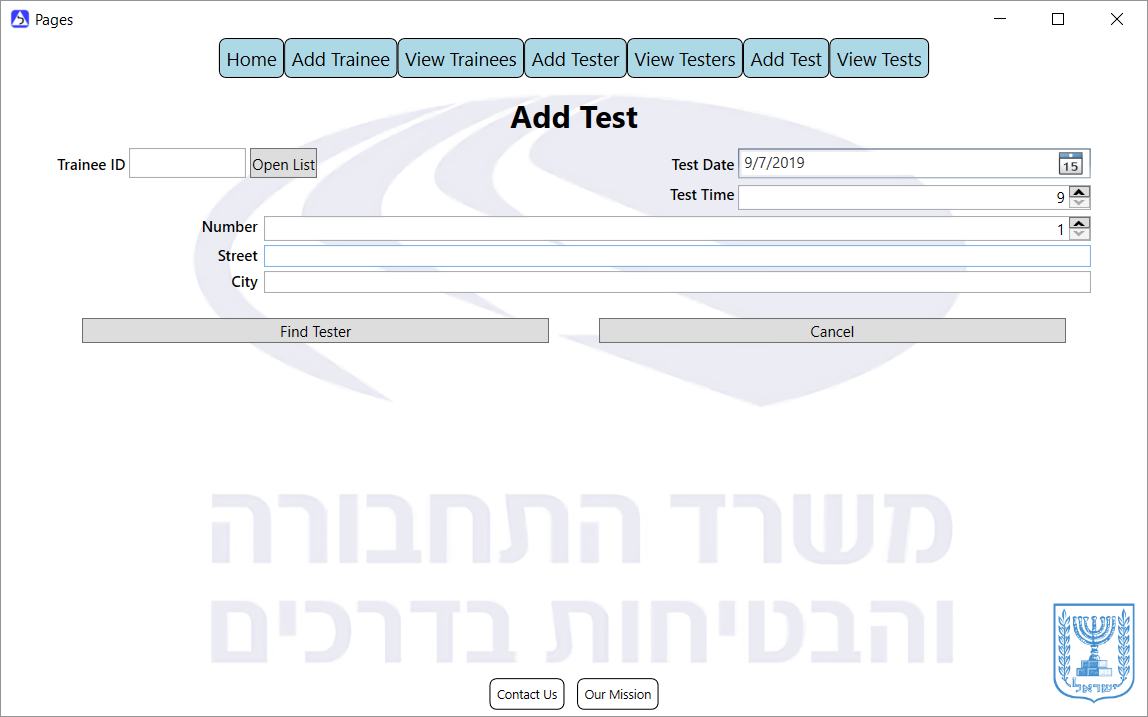
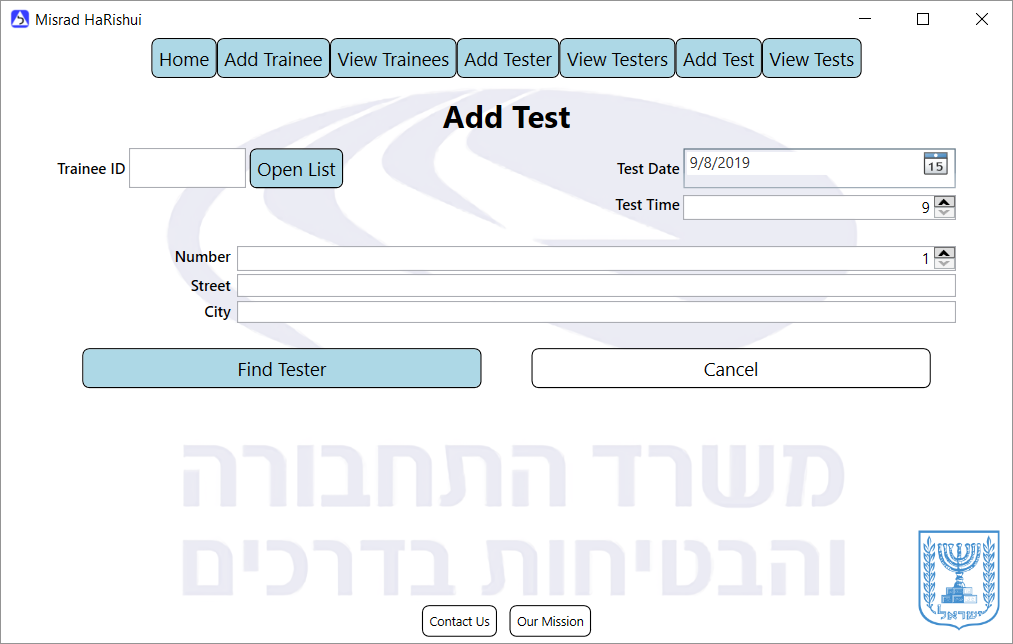
Stuff

diff --git a/PL_WPF/ViewTestPage.xaml b/PL_WPF/ViewTestPage.xaml
@@ -53,7 +53,7 @@
                             <ColumnDefinition Width="*" />
                         </Grid.ColumnDefinitions>
                         <TextBlock FontWeight="DemiBold" HorizontalAlignment="Right" Text="Date of Test" VerticalAlignment="Center" Margin="0 0 2 0" Grid.Column="0" />
-                        <TextBlock x:Name="TestDate" HorizontalAlignment="Left" Grid.Column="1" />
+                        <TextBlock x:Name="TestDate" VerticalAlignment="Center" HorizontalAlignment="Left" Grid.Column="1" />
                     </Grid>
                     <!--Test Time-->
                     <Grid>
@@ -62,7 +62,7 @@
                             <ColumnDefinition Width="*" />
                         </Grid.ColumnDefinitions>
                         <TextBlock FontWeight="DemiBold" HorizontalAlignment="Right" Text="Hour of Test" VerticalAlignment="Center" Margin="0 3 2 0" Grid.Column="0" />
-                        <TextBlock x:Name="TestHour" HorizontalAlignment="Left" Grid.Column="1" />
+                        <TextBlock x:Name="TestHour" VerticalAlignment="Center" HorizontalAlignment="Left" Grid.Column="1" />
                     </Grid>
                     <!--Start Address number-->
                     <TextBlock Text="Start Address" Margin="0 20 0 10" HorizontalAlignment="Center" FontSize="20" FontWeight="Bold" />
@@ -73,7 +73,7 @@
                             <ColumnDefinition Width="2*" />
                         </Grid.ColumnDefinitions>
                         <TextBlock FontWeight="DemiBold" Text="Number" HorizontalAlignment="Right" VerticalAlignment="Center" Margin="0 0 2 0" Grid.Column="0"/>
-                        <TextBlock x:Name="AddressNumber" Text="{Binding Path=StartAddress.Number}" HorizontalAlignment="Left" Grid.Column="1" />
+                        <TextBlock x:Name="AddressNumber" VerticalAlignment="Center" Text="{Binding Path=StartAddress.Number}" HorizontalAlignment="Left" Grid.Column="1" />
                     </Grid>
                     <!--Start Street-->
                     <Grid Margin="0 0 0 3">
@@ -82,7 +82,7 @@
                             <ColumnDefinition Width="2*" />
                         </Grid.ColumnDefinitions>
                         <TextBlock FontWeight="DemiBold" Text="Street" HorizontalAlignment="Right" VerticalAlignment="Center" Margin="0 0 2 0" Grid.Column="0"/>
-                        <TextBlock x:Name="AddressStreet" Text="{Binding Path=StartAddress.Street}" HorizontalAlignment="Left" Grid.Column="1" />
+                        <TextBlock x:Name="AddressStreet" VerticalAlignment="Center" Text="{Binding Path=StartAddress.Street}" HorizontalAlignment="Left" Grid.Column="1" />
                     </Grid>
                     <!--Start City-->
                     <Grid>
@@ -91,7 +91,7 @@
                             <ColumnDefinition Width="2*" />
                         </Grid.ColumnDefinitions>
                         <TextBlock FontWeight="DemiBold" Text="City" HorizontalAlignment="Right" VerticalAlignment="Center" Margin="0 0 2 0" Grid.Column="0"/>
-                        <TextBlock x:Name="AddressCity" Text="{Binding Path=StartAddress.City}" HorizontalAlignment="Left" Grid.Column="1" />
+                        <TextBlock x:Name="AddressCity" VerticalAlignment="Center" Text="{Binding Path=StartAddress.City}" HorizontalAlignment="Left" Grid.Column="1" />
                     </Grid>
                 </StackPanel>
                 <!--Stack Panel for Criteria to pass the test with check boxes-->

diff --git a/PL_WPF/SelectTester.xaml b/PL_WPF/SelectTester.xaml
@@ -17,8 +17,12 @@
             <ImageBrush ImageSource="MisradHaRishu_4x_Light.png" Stretch="Uniform"/>
         </Border.Background>
         <!--Stack Panel containing elements of the window-->
-        <StackPanel>
-            <Grid>
+        <Grid>
+            <Grid.RowDefinitions>
+                <RowDefinition Height="*" />
+                <RowDefinition Height="auto" />
+            </Grid.RowDefinitions>
+            <Grid Grid.Row="0">
                 <Grid.RowDefinitions>
                     <RowDefinition Height="auto" />
                     <RowDefinition Height="auto" />
@@ -73,7 +77,7 @@
                 <TextBlock x:Name="loadingText" Text="Loading..." Grid.Row="1" Grid.Column="0" HorizontalAlignment="Center" />
             </Grid>
             <!--Cancel Button-->
-            <Button x:Name="CancelLoadingButton" Content="Cancel" Click="CancelLoadingButton_Click" VerticalAlignment="Bottom" Margin="100 20 100 5" Style="{StaticResource btnGray}" />
-        </StackPanel>
+            <Button Grid.Row="1" x:Name="CancelLoadingButton" Content="Cancel" Click="CancelLoadingButton_Click" VerticalAlignment="Bottom" Margin="100 20 100 5" Style="{StaticResource btnGray}" />
+        </Grid>
     </Border>
 </Window>

diff --git a/PL_WPF/SelectTrainee.xaml b/PL_WPF/SelectTrainee.xaml
@@ -32,8 +32,8 @@
                 </Grid.ColumnDefinitions>
                 <TextBox Grid.Column="0" Name="LevenshteinSearh" TextChanged="LevenshteinSearh_TextChanged" Margin="10 15" Width="200"/>
                 <fa:ImageAwesome Grid.Column="1" Icon="Search" Height="12pt" Width="12pt" />
-                <TextBlock Text="Select Trainee" Grid.Column="2" HorizontalAlignment="Center" FontSize="25" FontWeight="Bold" VerticalAlignment="Top"/>
             </Grid>
+            <TextBlock Text="Select Trainee" Grid.Column="2" HorizontalAlignment="Center" FontSize="25" FontWeight="Bold" VerticalAlignment="Top"/>
 
             <!--List of Trainees to select from-->
             <DataGrid Name="Trainees" Grid.Row="2" IsReadOnly="True" CanUserAddRows="False" AutoGenerateColumns="False">

diff --git a/PL_WPF/ContactUs.xaml b/PL_WPF/ContactUs.xaml
@@ -11,8 +11,6 @@
         <FlowDocumentScrollViewer Margin="50">
             <FlowDocument>
                 <Paragraph>
-                    <Image Source="C:\Users\Yosef\Desktop\DMV5-779\PL_WPF\Images\Logo\DMV_PIC.jpg"
-                           Width="90" Height="90" Margin="0 0 30 0"/>
                     <Run FontSize="40" FontWeight="Bold">
                         This Project is By:
                     </Run>
@@ -30,7 +28,7 @@
                     </ListItem>
                     <ListItem>
                         <Paragraph>
-                            Yosef Schoen
+                            Yosef Schoen 506429330
                         </Paragraph>
                     </ListItem>
                     <ListItem>

diff --git a/PL_WPF/Pages.xaml b/PL_WPF/Pages.xaml
@@ -5,7 +5,7 @@
         xmlns:mc="http://schemas.openxmlformats.org/markup-compatibility/2006"
         xmlns:local="clr-namespace:PL_WPF"
         mc:Ignorable="d"
-        Title="Pages" Icon="/Limud.ico" Height="500" Width="800">
+        Title="Misrad HaRishui" Icon="/Limud.ico" Height="500" Width="800">
 
     <Grid>
         <!--background image-->

diff --git a/PL_WPF/SelectTester.xaml.cs b/PL_WPF/SelectTester.xaml.cs
@@ -85,8 +85,8 @@ namespace PL_WPF
 
             testers = (List<Tester>)e.Result;
             Testers.ItemsSource = testers;
-            SearchIcon.Visibility = Visibility.Hidden;
-            LevenshteinSearh.Visibility = Visibility.Hidden;
+            SearchIcon.Visibility = Visibility.Visible;
+            LevenshteinSearh.Visibility = Visibility.Visible;
             Testers.Visibility = Visibility.Visible;
         }
 
